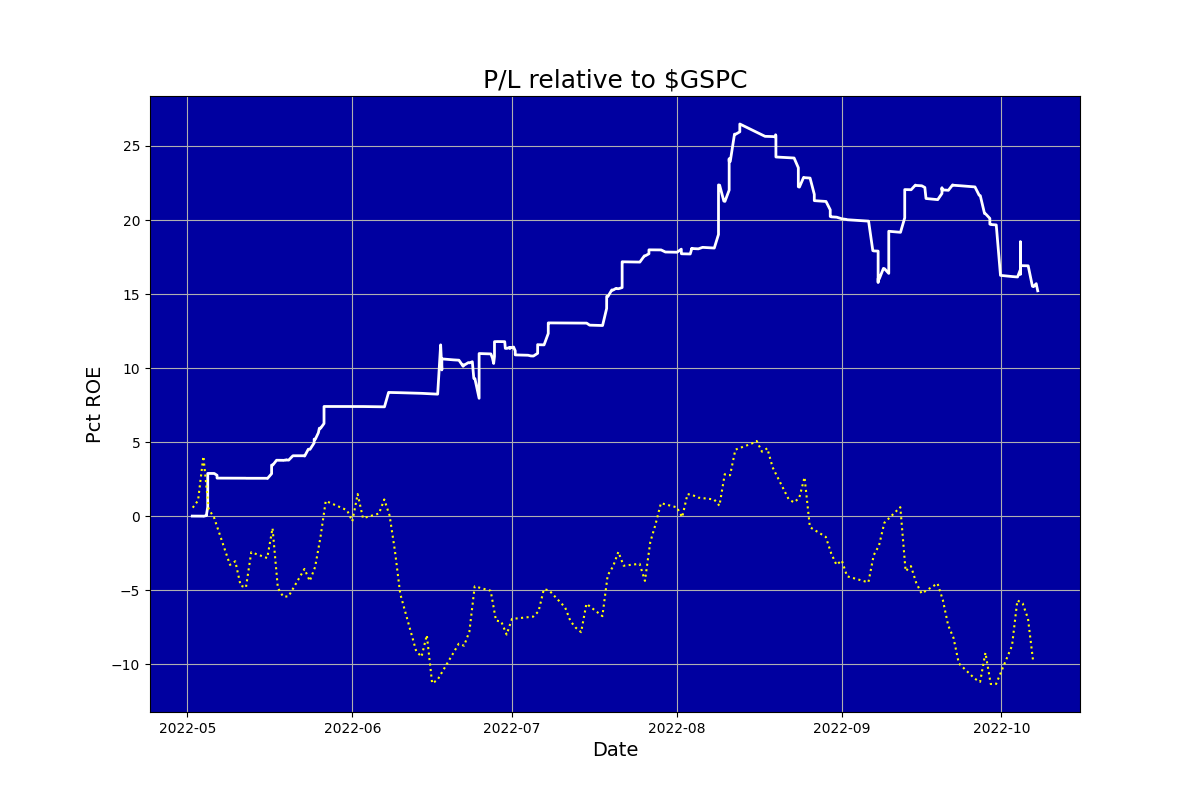
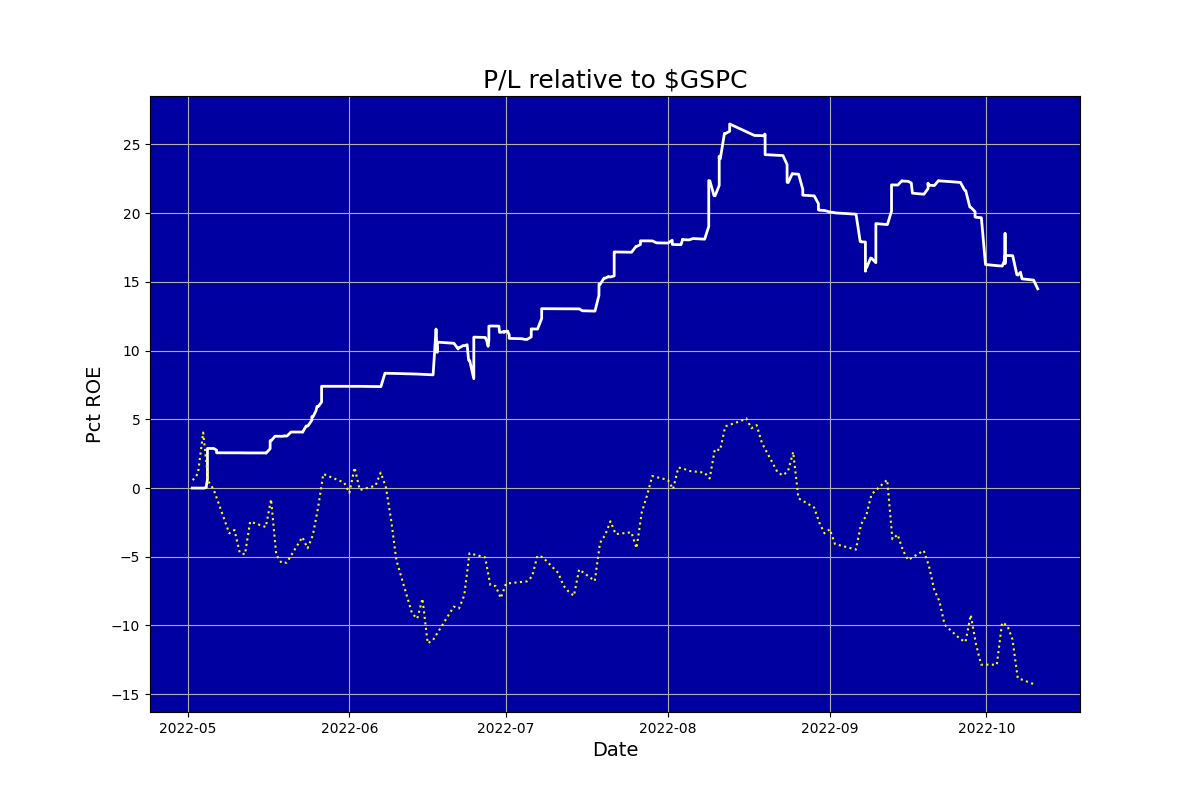
Updated

diff --git a/ig_report.html b/ig_report.html
@@ -1,1 +1,1 @@
-<html><body><center><h1>Auriel (never knowingly overbought)</h1></center><table cols=2><tr><td><img src=ig_pl.png></td><td><table cols=2><tr><td colspan=2><b><br>Snapshot</b></td></tr><tr><td>Last updated:&nbsp;&nbsp;&nbsp;</td><td>2022-10-07 15:58</td></tr><tr><td>Funds:&nbsp;&nbsp;&nbsp;</td><td>13320.29</td></tr><tr><td>Margin:&nbsp;&nbsp;&nbsp;</td><td>0.40</td></tr><tr><td>Cushion:&nbsp;&nbsp;&nbsp;</td><td>-2698.93</td></tr><tr><td>Last closed trade:&nbsp;&nbsp;&nbsp;</td><td>2022-10-07</td></tr><tr><td colspan=2><b><br>Positions</b></td></tr><tr><td>Mean days to new high:&nbsp;&nbsp;&nbsp;</td><td>5.23</td></tr><tr><td colspan=2><b><br>Trades</b></td></tr><tr><td>Num trades:&nbsp;&nbsp;&nbsp;</td><td>147</td></tr><tr><td>Pct winners:&nbsp;&nbsp;&nbsp;</td><td>61.22</td></tr><tr><td>Pct beating benchmark:&nbsp;&nbsp;&nbsp;</td><td>60.27</td></tr><tr><td>Pct profitable months:&nbsp;&nbsp;&nbsp;</td><td>66.67</td></tr><tr><td colspan=2><b><br>Performance</b></td></tr><tr><td>Pct median monthly ROE:&nbsp;&nbsp;&nbsp;</td><td>3.40</td></tr><tr><td>Pct annualised ROE:&nbsp;&nbsp;&nbsp;</td><td>65.69</td></tr><tr><td colspan=2><b><br>Risk</b></td></tr><tr><td>Volatility pct:&nbsp;&nbsp;&nbsp;</td><td>21.25</td></tr><tr><td>Benchmark volatility pct:&nbsp;&nbsp;&nbsp;</td><td>25.54</td></tr><tr><td>Sharpe ratio:&nbsp;&nbsp;&nbsp;</td><td>3.00</td></tr><tr><td>Calmar ratio:&nbsp;&nbsp;&nbsp;</td><td>6.18</td></tr><tr><td>Worst drawdown pct:&nbsp;&nbsp;&nbsp;</td><td>-0.11</td></tr><tr><td>Recovery days from worst drawdown:&nbsp;&nbsp;&nbsp;</td><td>9999.00</td></tr><tr><td>Beat benchmark +ve periods pct:&nbsp;&nbsp;&nbsp;</td><td>0.83</td></tr><tr><td>Beat benchmark -ve periods pct:&nbsp;&nbsp;&nbsp;</td><td>0.94</td></tr><tr><td>Correlation with benchmark:&nbsp;&nbsp;&nbsp;</td><td>0.39</td></tr></table></td></tr></table></body></html>
+<html><body><center><h1>Auriel (never knowingly overbought)</h1></center><table cols=2><tr><td><img src=ig_pl.png></td><td><table cols=2><tr><td colspan=2><b><br>Snapshot</b></td></tr><tr><td>Last updated:&nbsp;&nbsp;&nbsp;</td><td>2022-10-10 15:59</td></tr><tr><td>Funds:&nbsp;&nbsp;&nbsp;</td><td>13223.69</td></tr><tr><td>Margin:&nbsp;&nbsp;&nbsp;</td><td>0.39</td></tr><tr><td>Cushion:&nbsp;&nbsp;&nbsp;</td><td>-2764.88</td></tr><tr><td>Last closed trade:&nbsp;&nbsp;&nbsp;</td><td>2022-10-10</td></tr><tr><td colspan=2><b><br>Positions</b></td></tr><tr><td>Mean days to new high:&nbsp;&nbsp;&nbsp;</td><td>5.54</td></tr><tr><td colspan=2><b><br>Trades</b></td></tr><tr><td>Num trades:&nbsp;&nbsp;&nbsp;</td><td>148</td></tr><tr><td>Pct winners:&nbsp;&nbsp;&nbsp;</td><td>60.81</td></tr><tr><td>Pct beating benchmark:&nbsp;&nbsp;&nbsp;</td><td>59.86</td></tr><tr><td>Pct profitable months:&nbsp;&nbsp;&nbsp;</td><td>66.67</td></tr><tr><td colspan=2><b><br>Performance</b></td></tr><tr><td>Pct median monthly ROE:&nbsp;&nbsp;&nbsp;</td><td>3.40</td></tr><tr><td>Pct annualised ROE:&nbsp;&nbsp;&nbsp;</td><td>62.18</td></tr><tr><td colspan=2><b><br>Risk</b></td></tr><tr><td>Volatility pct:&nbsp;&nbsp;&nbsp;</td><td>21.16</td></tr><tr><td>Benchmark volatility pct:&nbsp;&nbsp;&nbsp;</td><td>25.14</td></tr><tr><td>Sharpe ratio:&nbsp;&nbsp;&nbsp;</td><td>2.84</td></tr><tr><td>Calmar ratio:&nbsp;&nbsp;&nbsp;</td><td>5.52</td></tr><tr><td>Worst drawdown pct:&nbsp;&nbsp;&nbsp;</td><td>-0.11</td></tr><tr><td>Recovery days from worst drawdown:&nbsp;&nbsp;&nbsp;</td><td>9999.00</td></tr><tr><td>Beat benchmark +ve periods pct:&nbsp;&nbsp;&nbsp;</td><td>0.83</td></tr><tr><td>Beat benchmark -ve periods pct:&nbsp;&nbsp;&nbsp;</td><td>0.94</td></tr><tr><td>Correlation with benchmark:&nbsp;&nbsp;&nbsp;</td><td>0.40</td></tr></table></td></tr></table></body></html>
